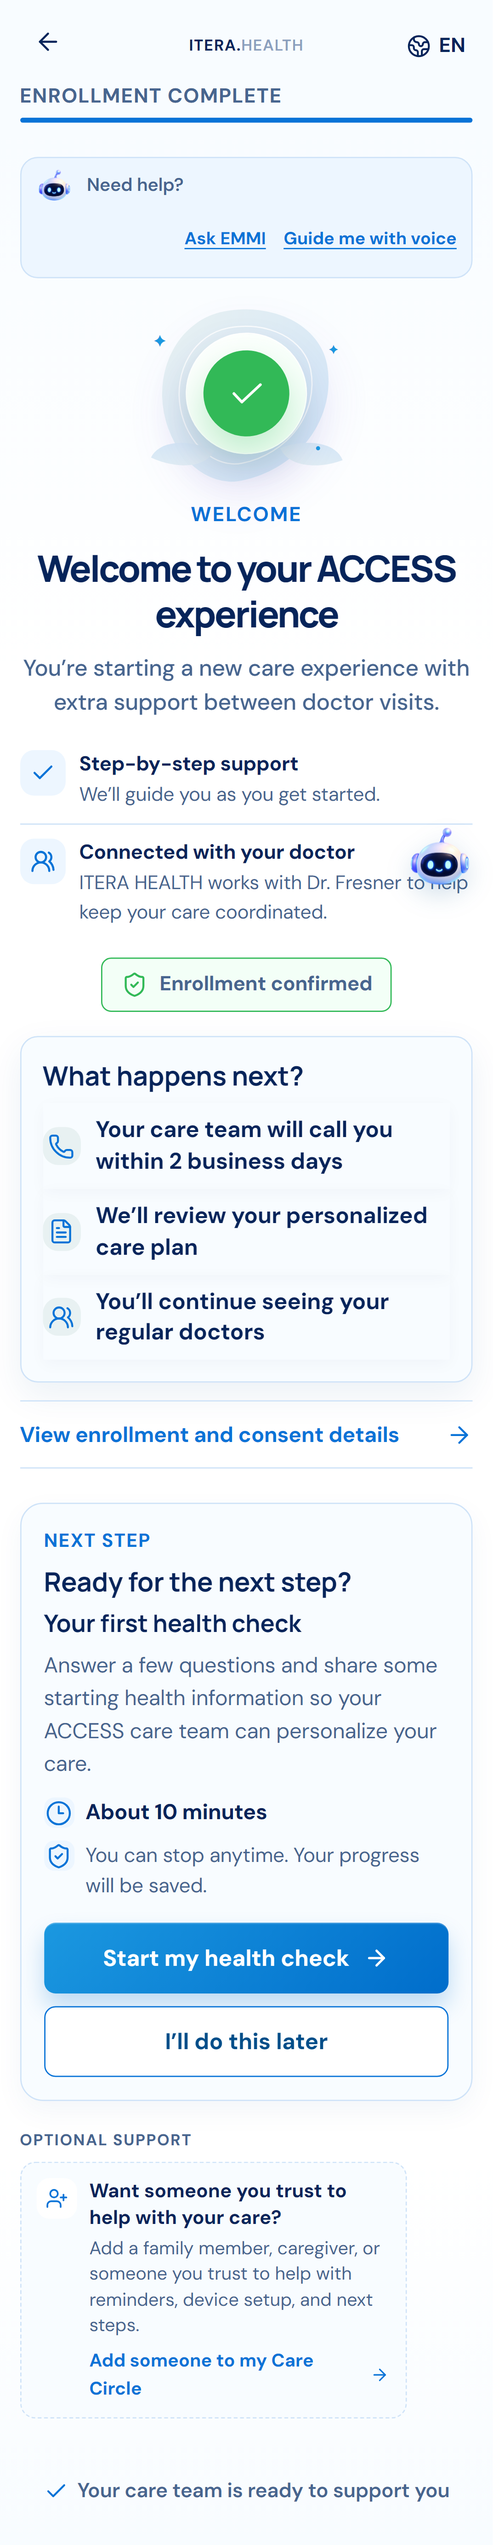
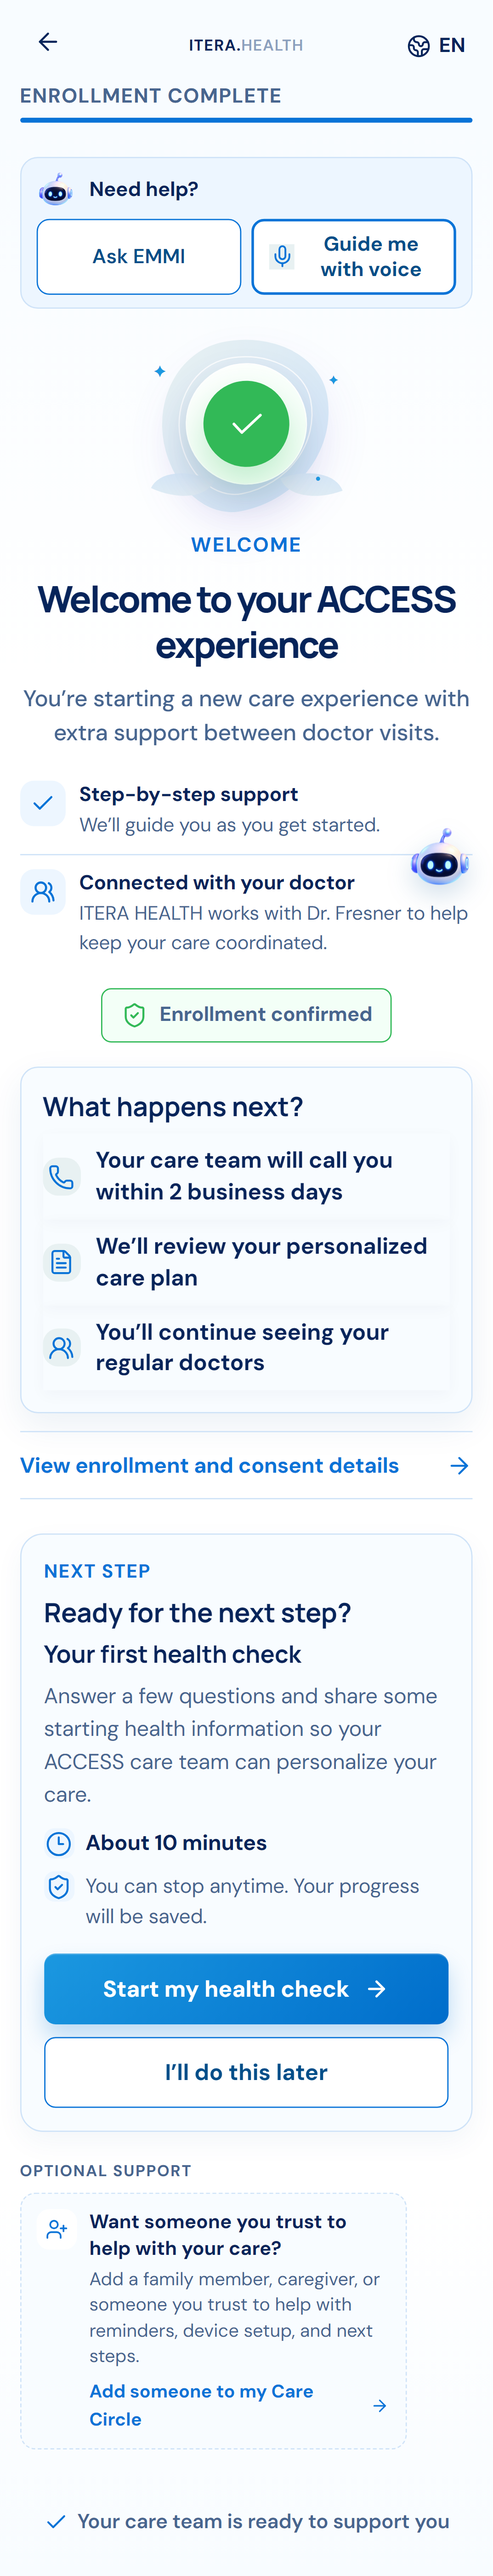
Give EMMI's contextual actions real buttons instead of underlined links
"Ask EMMI" and "Guide me with voice" were rendering as underlined text links
inside the EMMI card, which read as hyperlinks rather than actions and gave a
poor touch target on a phone.

- Both become outline buttons in the platform's existing language: brand
  border, brand text, 10px radius, hover, active, focus-visible and disabled
  states. The voice action leads with a heavier border and the project's
  Lucide mic icon; "Ask EMMI" stays icon-free so the pair is not overloaded.
- The action row is a grid of auto-fit minmax(148px,1fr), so it keeps two
  columns wherever the labels fit and stacks to full width when they do not,
  rather than hardcoding one arrangement.
- Tertiary controls ("Read message", "Turn voice off") keep their lighter
  weight but no longer carry a permanent underline; it appears on hover only.
- Labels stay localized through the existing i18n, and no session, narration
  or voice logic was touched.

Verified at 384x824 in EN, ES and Kreyòl: real button elements, 59px tall,
16px type, no underline, nothing clipped, both inside the card, a single icon
across the pair, and a 119px card. Two columns hold from 360px (151px each)
through 430px (182px each) with no horizontal overflow. A new e2e check locks
semantics, borders, touch target, font size, clipping and icon count at 360,
384 and 430 in Spanish.

diff --git a/e2e/emmi-guidance.spec.js b/e2e/emmi-guidance.spec.js
@@ -192,3 +192,57 @@ test("localizes the EMMI welcome in Spanish and Kreyòl without mixing languages
   await expect(page.getByRole("heading", { name: "Bonjou, mwen se EMMI." })).toBeVisible();
   await expect(page.getByRole("button", { name: "Gide m ak vwa" })).toBeVisible();
 });
+
+test("EMMI actions are real buttons rather than underlined links", async ({ page }) => {
+  // 384x824 is the primary mobile reference, and Spanish carries the longest labels.
+  for (const [width, height] of [[360, 800], [384, 824], [430, 932]]) {
+    await page.setViewportSize({ width, height });
+    await page.goto("/?scenario=access-happy");
+    // A draft left by an earlier test would restore a later screen instead of Home.
+    await page.evaluate(() => localStorage.clear());
+    await page.reload();
+    await page.getByRole("button", { name: /See how it works/i }).click();
+    await page.locator('[data-action="language"]').first().click();
+
+    const card = page.locator(".emmi-guide-off");
+    await expect(card).toBeVisible();
+    const ask = card.getByRole("button", { name: "Preguntar a EMMI" });
+    const voice = card.getByRole("button", { name: /Guíeme con voz/ });
+    await expect(ask).toBeVisible();
+    await expect(voice).toBeVisible();
+
+    const audit = await card.evaluate(node => {
+      const buttons = [...node.querySelectorAll(".emmi-guide-button")];
+      const cardRect = node.getBoundingClientRect();
+      return {
+        count: buttons.length,
+        allButtons: buttons.every(button => button.tagName === "BUTTON"),
+        // Actions must not read as hyperlinks.
+        underlined: buttons.some(button => getComputedStyle(button).textDecorationLine.includes("underline")),
+        bordered: buttons.every(button => parseFloat(getComputedStyle(button).borderTopWidth) > 0),
+        minHeight: Math.min(...buttons.map(button => button.getBoundingClientRect().height)),
+        minFont: Math.min(...buttons.map(button => parseFloat(getComputedStyle(button).fontSize))),
+        clipped: buttons.some(button => button.scrollWidth > button.clientWidth + 1),
+        contained: buttons.every(button => {
+          const rect = button.getBoundingClientRect();
+          return rect.left >= cardRect.left - 1 && rect.right <= cardRect.right + 1;
+        }),
+        // Only the voice action carries an icon, so the pair does not feel over-decorated.
+        iconCount: buttons.filter(button => button.querySelector("svg")).length,
+        cardHeight: cardRect.height
+      };
+    });
+
+    expect(audit.count, `${width}px`).toBe(2);
+    expect(audit.allButtons, `${width}px semantics`).toBe(true);
+    expect(audit.underlined, `${width}px underline`).toBe(false);
+    expect(audit.bordered, `${width}px border`).toBe(true);
+    expect(audit.minHeight, `${width}px touch target`).toBeGreaterThanOrEqual(44);
+    expect(audit.minFont, `${width}px font`).toBeGreaterThanOrEqual(16);
+    expect(audit.clipped, `${width}px clipped label`).toBe(false);
+    expect(audit.contained, `${width}px containment`).toBe(true);
+    expect(audit.iconCount, `${width}px icons`).toBe(1);
+    expect(audit.cardHeight, `${width}px card height`).toBeLessThanOrEqual(150);
+    expect(await page.evaluate(() => document.documentElement.scrollWidth > innerWidth), `${width}px overflow`).toBe(false);
+  }
+});

diff --git a/src/styles.css b/src/styles.css
@@ -724,13 +724,24 @@ p { margin:0; }
 .emmi-guide-actions button:focus-visible,.emmi-guide-link:focus-visible { outline:3px solid var(--focus-ring);outline-offset:1px; }
 /* Secondary actions are text links so "Turn voice off" never dominates the guide. */
 .emmi-guide-links { display:flex;flex-wrap:wrap;gap:0 16px;align-items:center;min-height:0; }
-.emmi-guide-link { min-height:44px;padding:0;border:0;background:none;color:var(--primary-600);font:inherit;font-size:.86rem;font-weight:700;text-decoration:underline;text-underline-offset:3px;cursor:pointer; }
+.emmi-guide-link { min-height:44px;padding:0 2px;border:0;background:none;color:var(--primary-600);font:inherit;font-size:.9rem;font-weight:700;cursor:pointer; }
+.emmi-guide-link:hover { text-decoration:underline;text-underline-offset:3px; }
 .emmi-guide-off-link { color:var(--text-secondary);font-weight:600; }
 .emmi-guide-transcript { margin:0;padding:9px 10px;border-radius:10px;color:var(--text-primary);background:var(--surface-primary);font-size:.94rem;line-height:1.5; }
-.emmi-guide-off { display:flex;flex-wrap:wrap;gap:6px 12px;align-items:center;padding:8px 12px; }
-.emmi-guide-off .emmi-guide-avatar { width:28px;height:28px; }
-.emmi-guide-off-copy { color:var(--text-secondary);font-size:.9rem;font-weight:600; }
-.emmi-guide-off-actions { display:flex;flex-wrap:wrap;gap:4px 14px;align-items:center;margin-left:auto; }
+.emmi-guide-off { gap:8px;padding:10px 12px; }
+.emmi-guide-off .emmi-guide-avatar { width:30px;height:30px; }
+.emmi-guide-off-copy { color:var(--text-primary);font-size:1rem;font-weight:700; }
+/* Two columns when both labels fit, stacking to full width when they do not. The minimum
+   keeps long Spanish labels ("Preguntar a EMMI", "Guíeme con voz") on one line at 384px. */
+.emmi-guide-off-actions { display:grid;grid-template-columns:repeat(auto-fit,minmax(148px,1fr));gap:8px; }
+.emmi-guide-button { display:inline-flex;align-items:center;justify-content:center;gap:7px;width:100%;min-height:46px;padding:8px 12px;border:1px solid var(--primary-600);border-radius:10px;color:var(--primary-700);background:var(--surface-primary);font:inherit;font-size:1rem;font-weight:600;line-height:1.25;text-align:center;cursor:pointer; }
+.emmi-guide-button-lead { border-width:2px;font-weight:700; }
+.emmi-guide-button:hover { background:var(--primary-50); }
+.emmi-guide-button:active { transform:translateY(1px); }
+.emmi-guide-button:focus-visible { outline:3px solid var(--focus-ring);outline-offset:2px; }
+.emmi-guide-button:disabled { opacity:.55;cursor:not-allowed; }
+.emmi-guide-button-icon { width:20px;height:20px;flex:0 0 20px;border-radius:0;color:inherit;background:transparent; }
+.emmi-guide-button-icon svg { width:19px;height:19px; }
 .emmi-guide[data-guide-state="SPEAKING"] .emmi-guide-avatar { animation:emmi-guide-pulse 1.6s ease-in-out infinite; }
 @keyframes emmi-guide-pulse { 50% { opacity:.55; } }
 @media (prefers-reduced-motion:reduce) { .emmi-guide[data-guide-state="SPEAKING"] .emmi-guide-avatar { animation:none; } }

diff --git a/src/app.js b/src/app.js
@@ -1031,7 +1031,12 @@ function voiceGuidancePanel() {
   const guideLabel = L("EMMI contextual guidance", "Orientación contextual de EMMI", "Gid kontèks EMMI");
   // Voice off: a small affordance, never the full card.
   if (!state.emmiVoiceGuidance) {
-    return `<section class="emmi-guide emmi-guide-off" aria-label="${guideLabel}"><img class="emmi-guide-avatar" src="/assets/emmi-assistant.png" alt=""><span class="emmi-guide-off-copy">${L("Need help?", "¿Necesita ayuda?", "Bezwen èd?")}</span><span class="emmi-guide-off-actions"><button type="button" class="emmi-guide-link" data-action="help">${L("Ask EMMI", "Preguntar a EMMI", "Mande EMMI")}</button><button type="button" class="emmi-guide-link" data-action="enable-emmi-guidance">${L("Guide me with voice", "Guíeme con voz", "Gide m ak vwa")}</button></span></section>`;
+    // Real buttons, not hyperlinks: these are direct actions, and long Spanish labels need a
+    // comfortable touch target rather than an underlined run of text.
+    return `<section class="emmi-guide emmi-guide-off" aria-label="${guideLabel}">
+      <div class="emmi-guide-row"><img class="emmi-guide-avatar" src="/assets/emmi-assistant.png" alt=""><span class="emmi-guide-off-copy">${L("Need help?", "¿Necesita ayuda?", "Bezwen èd?")}</span></div>
+      <div class="emmi-guide-off-actions"><button type="button" class="emmi-guide-button" data-action="help">${L("Ask EMMI", "Preguntar a EMMI", "Mande EMMI")}</button><button type="button" class="emmi-guide-button emmi-guide-button-lead" data-action="enable-emmi-guidance">${icon("mic", "emmi-guide-button-icon")}<span>${L("Guide me with voice", "Guíeme con voz", "Gide m ak vwa")}</span></button></div>
+    </section>`;
   }
   const guideState = emmiGuideState();
   const narration = buildNarration({ screen: state.screen, locale: languageCode(), runtime: emmiNarrativeRuntime() });
